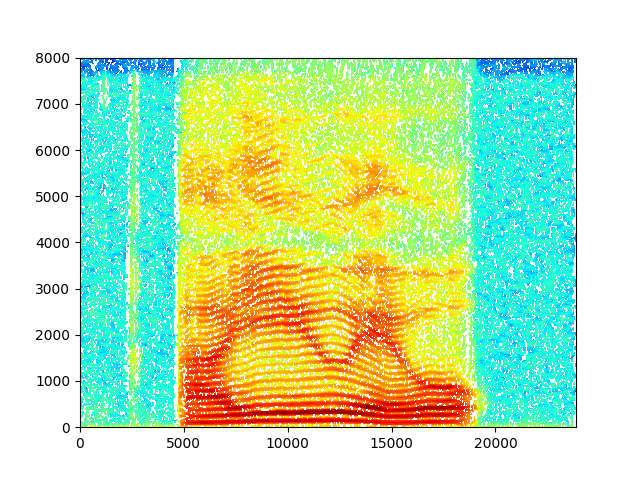
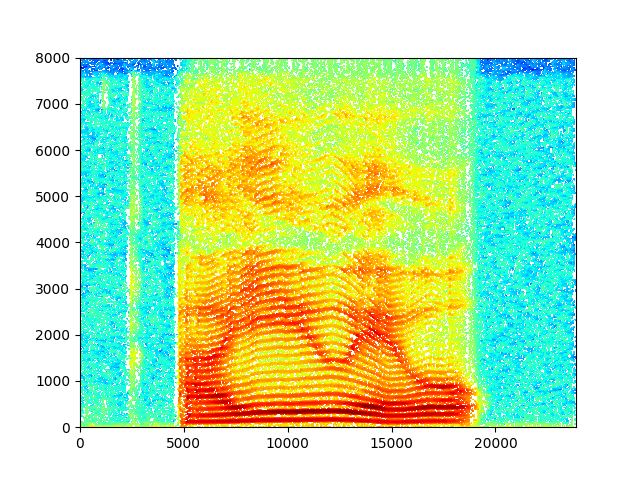
0 padding for exp0

Changed region(s): [[0.125, 0.125, 0.9062, 0.9062]]

diff --git a/dgt.py b/dgt.py
@@ -5,6 +5,7 @@ from concurrent.futures import ThreadPoolExecutor
 from concurrent import futures
 import matplotlib.ticker as ticker
 import time
+import sys
 
 THREADS = 8
 
@@ -219,9 +220,12 @@ if __name__ == "__main__":
 
     a = 50
     b = 25
-    start = 5000
-    end = 20000
+    start = 0
+    end = sys.maxsize    # ファイル全体
     x, fs = load_wav("MSK.20100405.M.CS05.wav", start, end)
+    # x を a, b で割り切れる数まで0埋め
+    x = np.append(x, np.zeros(b - (len(x) % b)))
+    print("len(x):" + str(len(x)))
     L = len(x)
     N = int(L / a)
     M = int(L / b)
@@ -229,59 +233,6 @@ if __name__ == "__main__":
     # 順変換
     dgt = DGT(len(w), a, b, L)
     X = dgt.dgt(x, w)
-
-    """
-    clear_fs_min = 0
-    clear_m_min = int((M / 2) / fs * clear_fs_min)
-    clear_fs_max = 3000
-    clear_m_max = int((M / 2) / fs * clear_fs_max)
-    X[clear_m_min:clear_m_max, :] = 0
-    X[M-1-clear_m_max:M-1-clear_m_min, :] = 0
-    """
-    """
-    # 男声 → 女声
-    new_X = np.zeros((M, N), dtype=complex)
-    # 倍音の間隔を広げる
-    for m in range(0, int(M/2)):
-        new_X[m, :] = X[int(m/2), :]
-        new_X[M-1-m, :] = X[M-1-int(m/2), :]
-    X = new_X
-    """
-    """
-    slide_fs = 300
-    min_m = int(M / fs * slide_fs)
-    block_fs = int(fs / M)
-    slide_m = int(slide_fs / block_fs)
-    new_X = np.zeros((M, N), dtype=complex)
-    for m in range(min_m, int(M/2)):
-        new_X[m, :] = X[m-slide_m, :]
-        new_X[M-1-m, :] = X[m-slide_m, :]
-    X = new_X
-    X[int(M/2):M, :] = np.flipud(X[0:int(M/2), :])
-    """
-
-    before_X = X.copy()
-
-    slide_fs = 300
-    min_m = int(M / fs * slide_fs)
-    block_fs = int(fs / M)
-    slide_m = int(slide_fs / block_fs)
-    new_X = X.copy()
-    for m in range(min_m, int(M/2)):
-        new_X[m, :] += before_X[m-slide_m, :]
-        new_X[M-1-m, :] += before_X[M-1-m+slide_m, :]
-    X = new_X
-
-    slide_fs = 300
-    min_m = int(M / fs * slide_fs)
-    block_fs = int(fs / M)
-    slide_m = int(slide_fs / block_fs)
-    new_X = X.copy()
-    for m in range(min_m, int(M/2)):
-        new_X[m, :] -= before_X[m-slide_m, :]
-        new_X[M-1-m, :] -= before_X[M-1-m+slide_m, :]
-    X = new_X
-
     print(X)
 
     # 逆変換

diff --git a/dgt_exp2.py b/dgt_exp2.py
@@ -12,8 +12,8 @@ plt.show()
 
 a = 50
 b = 25
-start = 5000
-end = 20000
+start = 0
+end = sys.maxsize    # ファイル全体
 
 # 音声を読み込み
 x, fs = mydgt.load_wav("MSK.20100405.M.CS05.wav", start, end)
